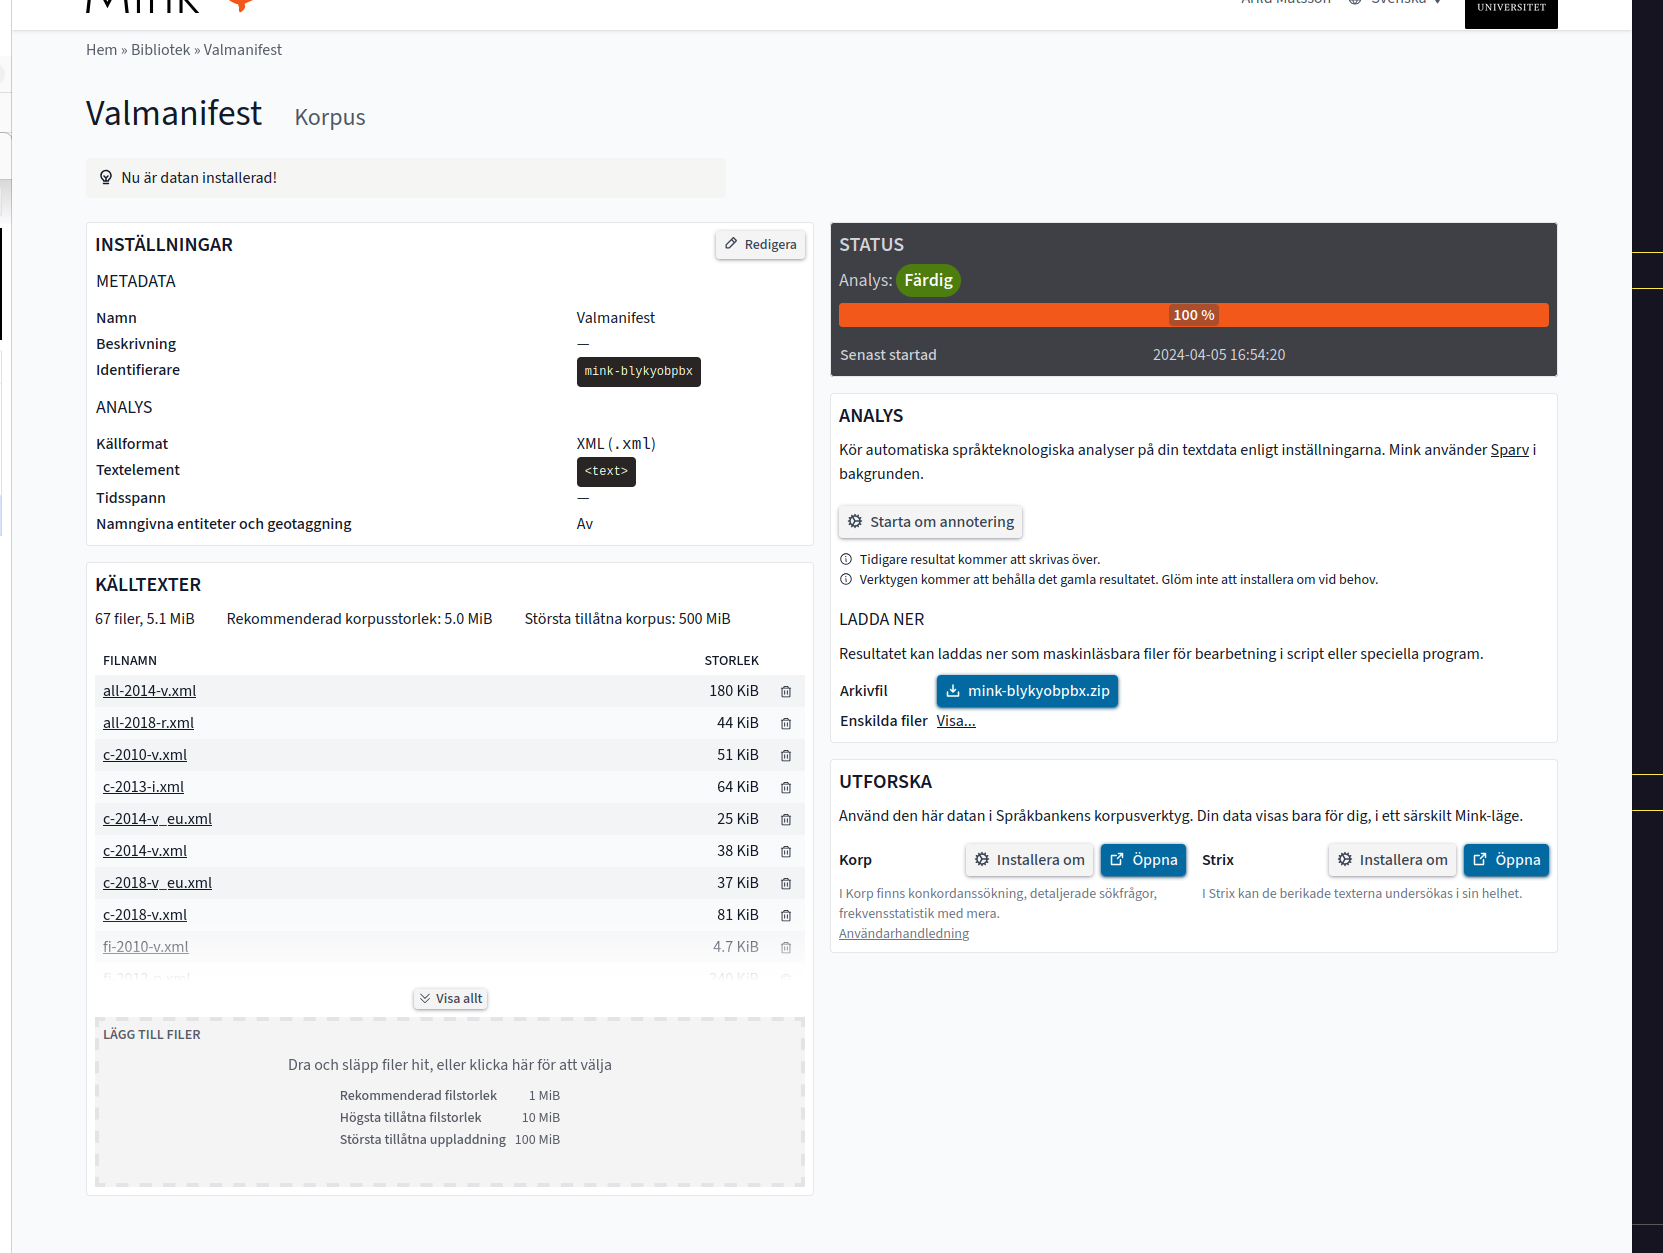
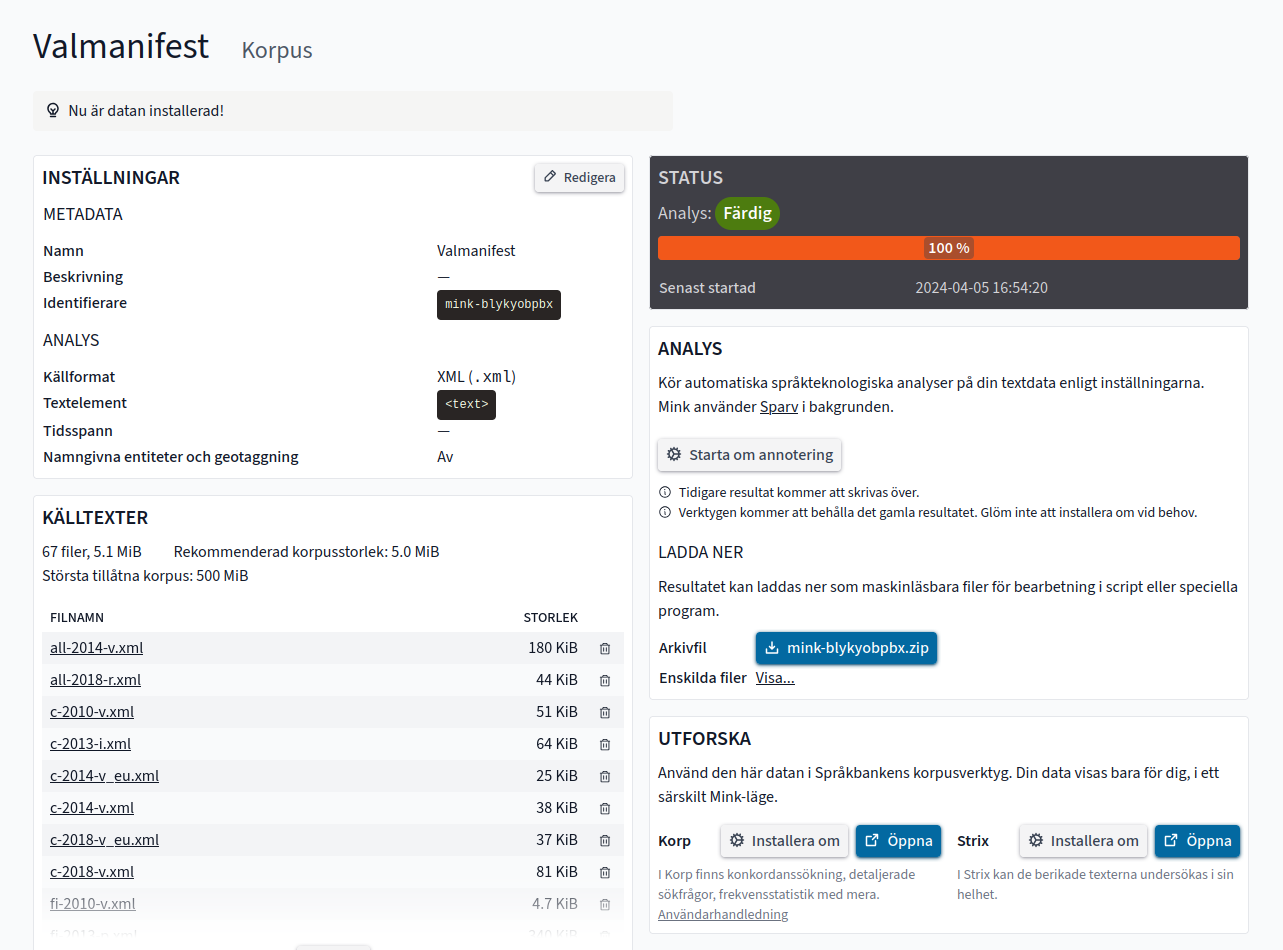
fix: new screenshots

diff --git a/src/home/HomeView.vue b/src/home/HomeView.vue
@@ -8,6 +8,8 @@ import { getLogoutUrl } from "@/auth/sbAuth";
 import LoginButton from "@/auth/LoginButton.vue";
 import UrlButton from "@/components/UrlButton.vue";
 import RouteButton from "@/components/RouteButton.vue";
+import minkScreen from "@/assets/mink-screen.png";
+import minkScreenDark from "@/assets/mink-screen-dark.png";
 
 const { isAuthenticated, canUserWrite, payload } = useAuth();
 const logoutUrl = getLogoutUrl();
@@ -74,13 +76,15 @@ const logoutUrl = getLogoutUrl();
         </div>
         <div class="flex-1">
           <div
-            class="bg-sborange-600 rounded-full aspect-square flex items-center"
+            class="bg-sborange-600 dark:bg-sbteal-900 rounded-full aspect-square flex items-center"
           >
-            <img
-              src="@/assets/mink-screen.png"
-              class="shadow-lg image3d"
-              :alt="$t('home.hero.alt')"
-            />
+            <picture class="shadow-lg image3d">
+              <source
+                media="(prefers-color-scheme: dark)"
+                :srcset="minkScreenDark"
+              />
+              <img :src="minkScreen" :alt="$t('home.hero.alt')" />
+            </picture>
           </div>
         </div>
       </div>

diff --git a/CHANGELOG.md b/CHANGELOG.md
@@ -13,6 +13,10 @@ As this project is a user-facing application, the places in the semantic version
 
 ## [Unreleased]
 
+### Fixed
+
+- Updated screenshots
+
 ## [1.7.1] (2024-12-03)
 
 ### Added
